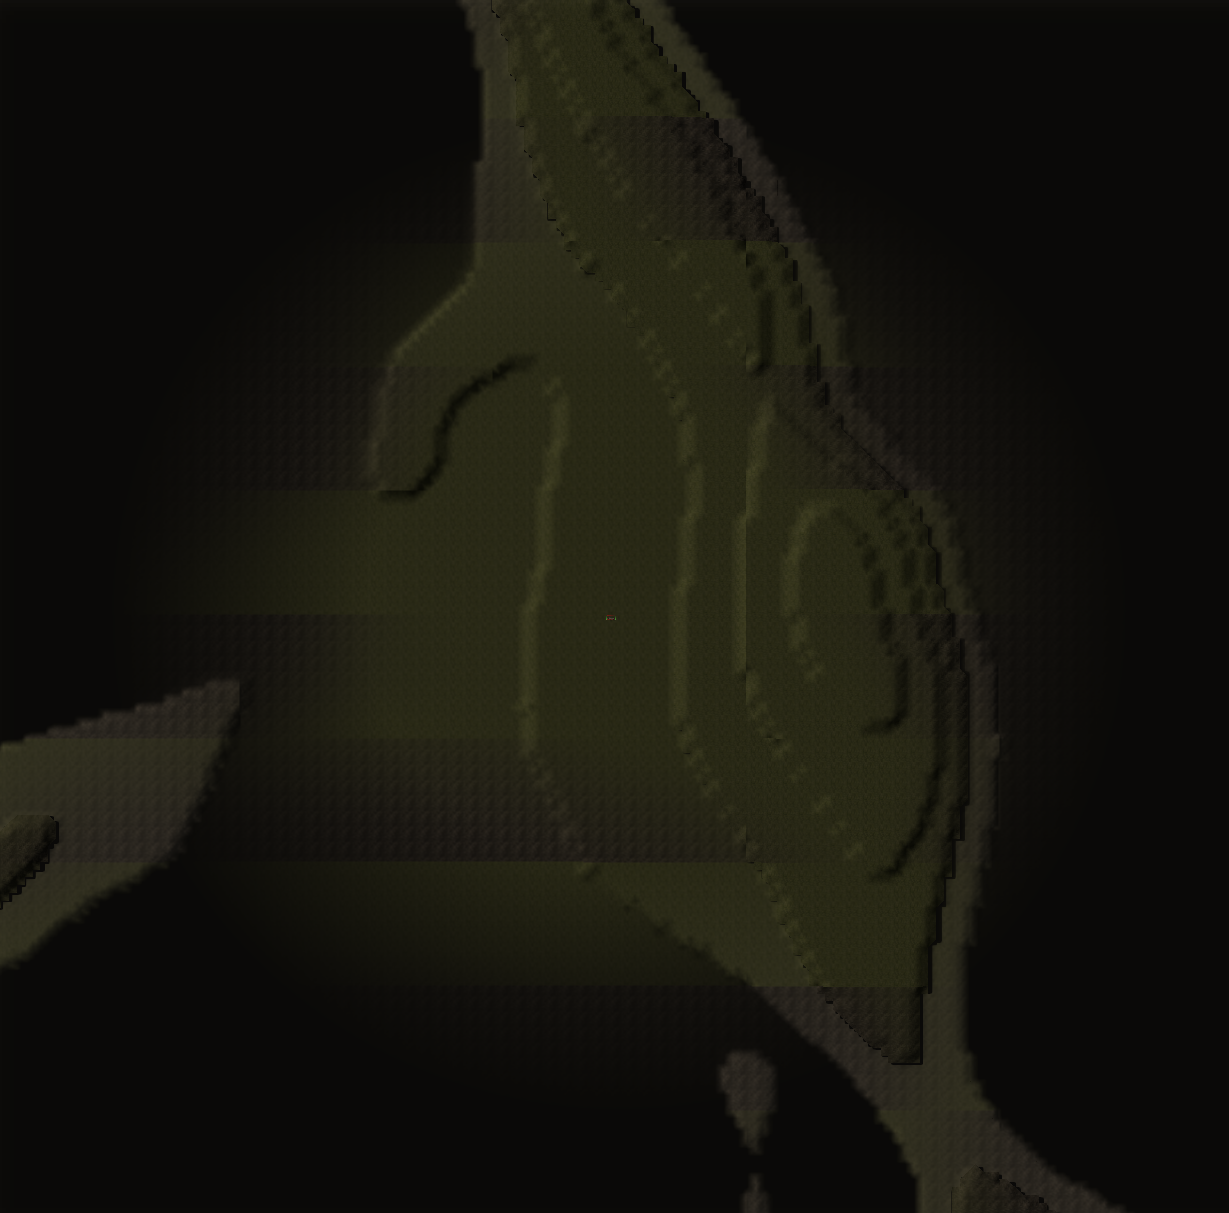
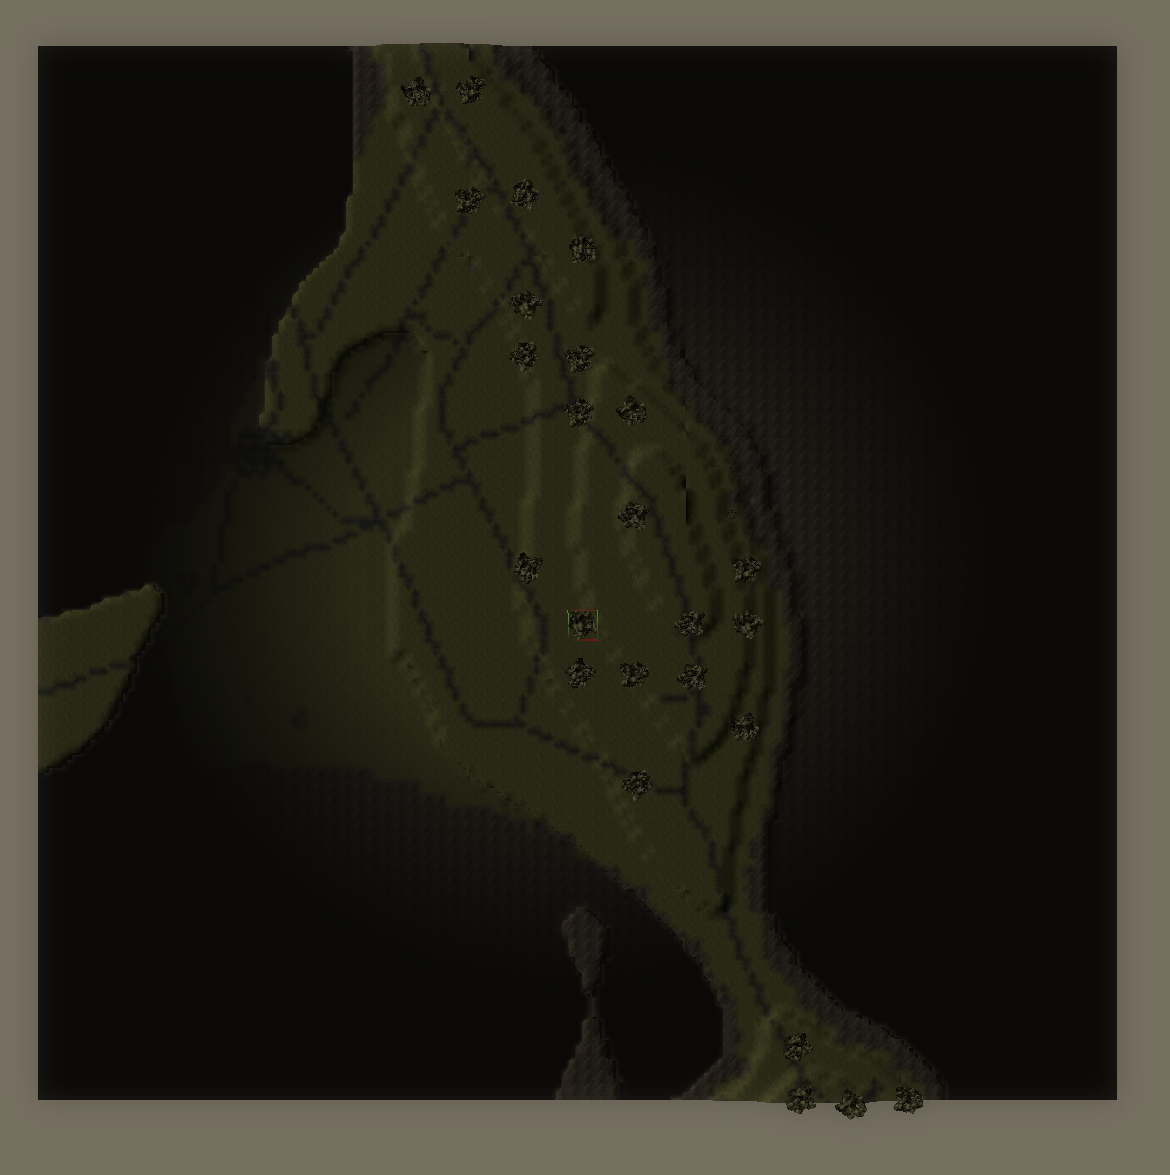
Add support for roads in GUI mode (previously only via CLI)

diff --git a/src/gui.rs b/src/gui.rs
@@ -837,6 +837,42 @@ fn gui_start_generation(
 
                 let ground = ground::generate_ground_data(&args);
 
+                // Fetch OSM road network for asphalt texture painting.
+                // Failure is non-fatal; roads are simply omitted.
+                emit_gui_progress_update(10.0, "Fetching road data...");
+                let road_polylines: Vec<Vec<(i32, i32)>> = match retrieve_data::fetch_data_from_overpass(
+                    bbox,
+                    false,
+                    "requests",
+                    None,
+                ) {
+                    Ok(raw_data) => {
+                        let (elements, _) =
+                            crate::osm_parser::parse_osm_data(raw_data, bbox, world_scale, false);
+                        elements
+                            .iter()
+                            .filter_map(|e| {
+                                if let crate::osm_parser::ProcessedElement::Way(way) = e {
+                                    if way.tags.get("highway").map_or(false, |v| {
+                                        crate::fnv_esm::fnv_road_type(v) > 0
+                                    }) {
+                                        let pts: Vec<(i32, i32)> =
+                                            way.nodes.iter().map(|n| (n.x, n.z)).collect();
+                                        if pts.len() >= 2 {
+                                            return Some(pts);
+                                        }
+                                    }
+                                }
+                                None
+                            })
+                            .collect()
+                    }
+                    Err(e) => {
+                        println!("Road data unavailable ({}); roads will not be painted.", e);
+                        Vec::new()
+                    }
+                };
+
                 return match crate::fnv_esm::generate_fnv_esm(
                     &ground,
                     &args.bbox,
@@ -844,7 +880,7 @@ fn gui_start_generation(
                     &output_dir,
                     None,
                     world_scale,
-                    &[], // GUI does not fetch OSM data; roads omitted
+                    &road_polylines,
                 ) {
                     Ok(_) => {
                         let msg = format!("Done! Saved to: {}", output_dir.display());

diff --git a/src/main.rs b/src/main.rs
@@ -56,19 +56,6 @@ mod progress {
 #[cfg(target_os = "windows")]
 use windows::Win32::System::Console::{AttachConsole, FreeConsole, ATTACH_PARENT_PROCESS};
 
-/// Returns a non-zero priority for driveable highway types that should have
-/// the asphalt texture painted on FNV terrain, or 0 for non-road types
-/// (footways, paths, point features, etc.) that should be skipped.
-fn fnv_road_type(highway: &str) -> u8 {
-    match highway {
-        "motorway" | "motorway_link" => 4,
-        "trunk" | "trunk_link" | "primary" | "primary_link" => 3,
-        "secondary" | "secondary_link" | "tertiary" | "tertiary_link" => 2,
-        "residential" | "living_street" | "unclassified" | "service" | "road" => 1,
-        _ => 0, // footway, path, cycleway, steps, pedestrian, street_lamp, etc.
-    }
-}
-
 fn run_cli() {
     // Configure thread pool with 90% CPU cap to keep system responsive
     floodfill_cache::configure_rayon_thread_pool(0.9);
@@ -164,7 +151,7 @@ fn run_cli() {
                     .iter()
                     .filter_map(|e| {
                         if let osm_parser::ProcessedElement::Way(way) = e {
-                            if way.tags.get("highway").map_or(false, |v| fnv_road_type(v) > 0) {
+                            if way.tags.get("highway").map_or(false, |v| fnv_esm::fnv_road_type(v) > 0) {
                                 let pts: Vec<(i32, i32)> =
                                     way.nodes.iter().map(|n| (n.x, n.z)).collect();
                                 if pts.len() >= 2 {

diff --git a/src/fnv_esm.rs b/src/fnv_esm.rs
@@ -10,6 +10,18 @@ use std::collections::BTreeMap;
 use std::fs;
 use std::path::Path;
 
+/// Returns a non-zero priority for driveable highway types that should have
+/// the asphalt texture painted on FNV terrain, or 0 for non-road types.
+pub(crate) fn fnv_road_type(highway: &str) -> u8 {
+    match highway {
+        "motorway" | "motorway_link" => 4,
+        "trunk" | "trunk_link" | "primary" | "primary_link" => 3,
+        "secondary" | "secondary_link" | "tertiary" | "tertiary_link" => 2,
+        "residential" | "living_street" | "unclassified" | "service" | "road" => 1,
+        _ => 0,
+    }
+}
+
 const BLOCKS_PER_CELL: i32 = 32;
 const VERTS: usize = 33;
 const HEIGHT_MARGIN: i32 = 16;
